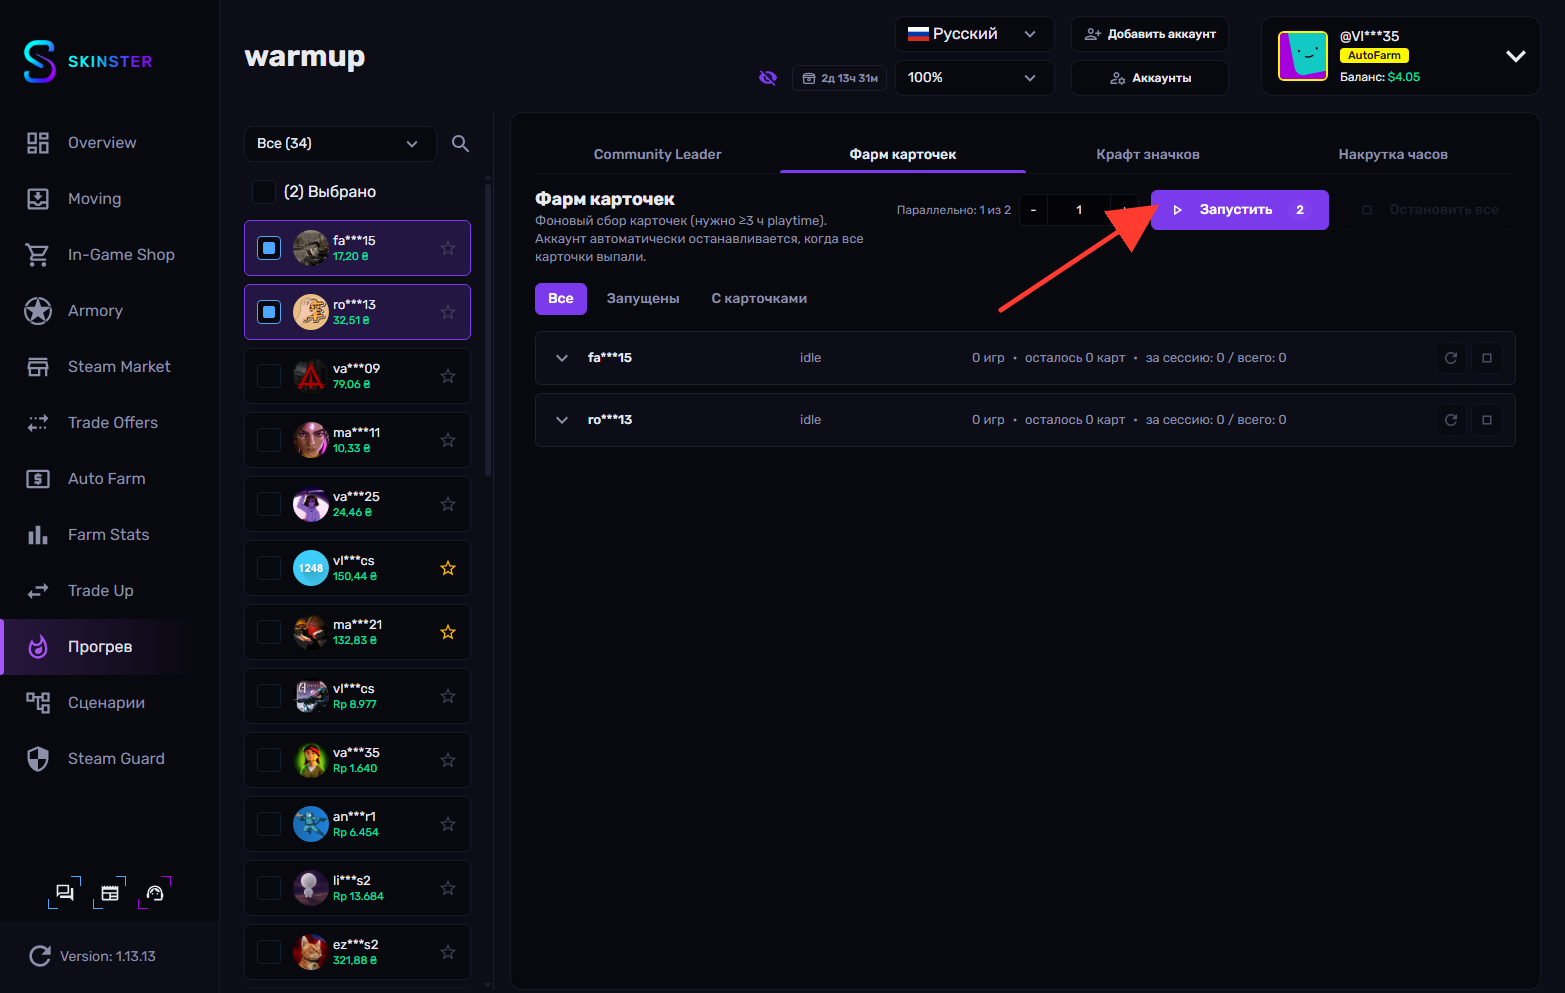
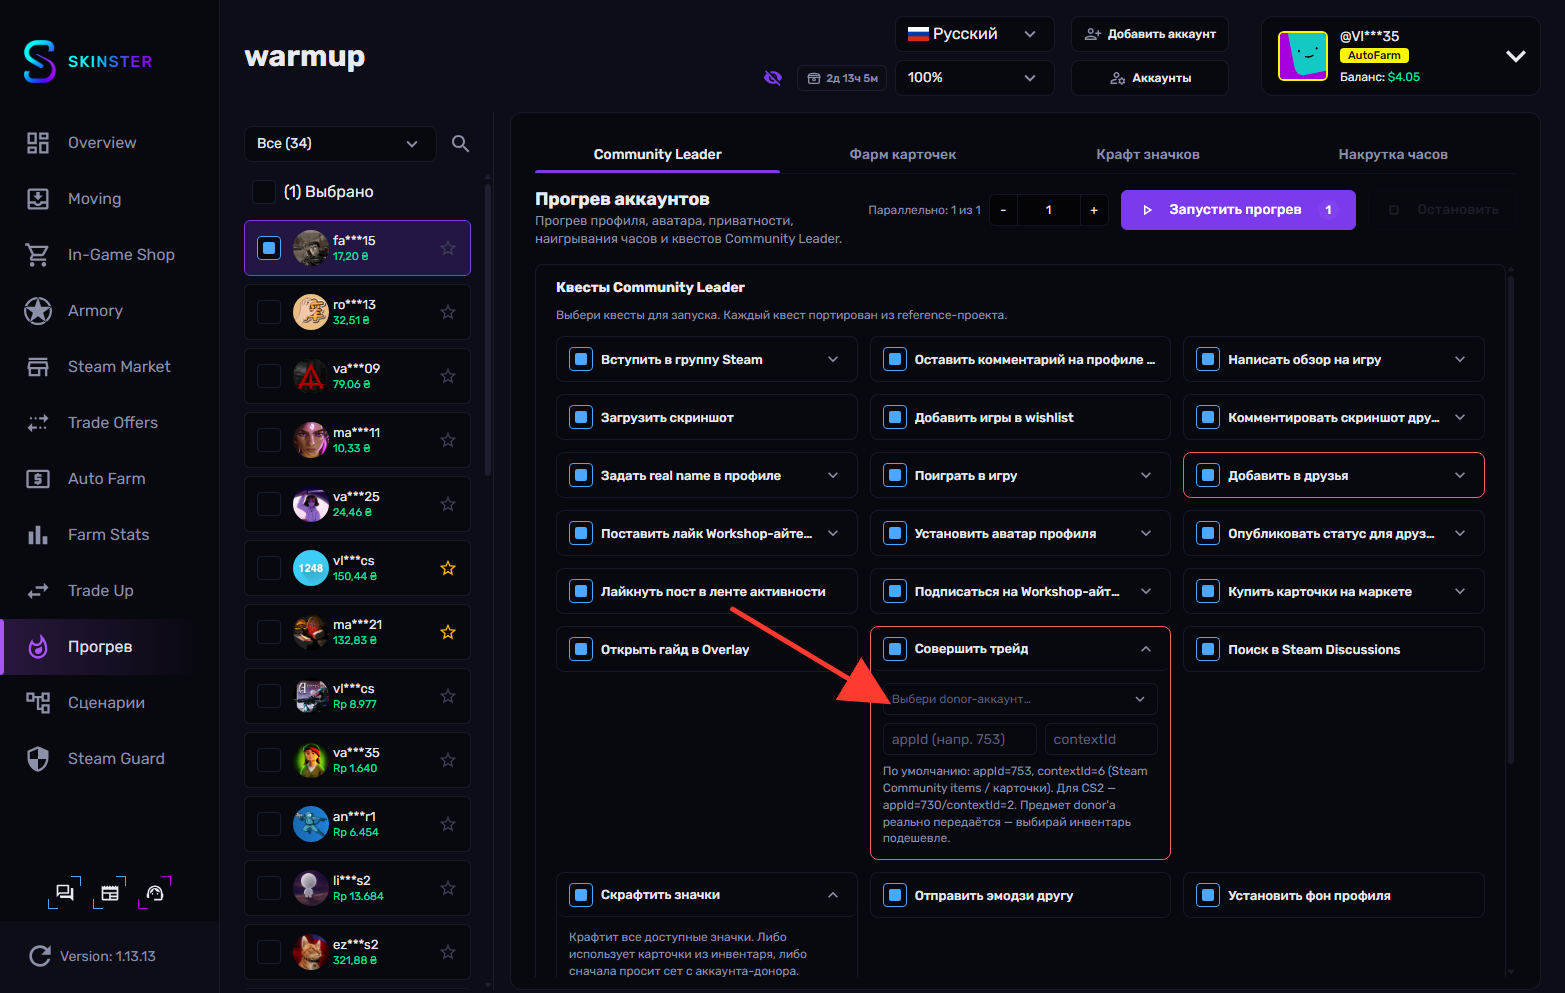
docs(warmup): add Совершить трейд and Скрафтить значки quest steps
Document two more Community Leader quests that require data before launch:
- Step 5: Совершить трейд — arrow on the «Выбери donor-аккаунт…» picker.
- Step 6: Скрафтить значки — «С аккаунта-донора» mode, arrows on the
  «Выбрать донор-аккаунт…» picker and «appId игры (напр. 730)» field.
Renumber the tab steps (Фарм карточек/Крафт значков/Накрутка часов) to 7-9
and shift their assets accordingly. Usernames masked in all screenshots.

diff --git a/gitbook/documentation/funkcional/warmup.md b/gitbook/documentation/funkcional/warmup.md
@@ -47,25 +47,41 @@ icon: fire
 
 <figure><img src="../.gitbook/assets/warmup-step-4.png" alt=""><figcaption></figcaption></figure>
 
-**5.** На вкладке **Фарм карточек** запускаем фоновый сбор карточек кнопкой **Запустить**
+**5.** Для квеста **Совершить трейд** разворачиваем его и в поле **Выбери donor-аккаунт…** выбираем аккаунт, который передаст предмет. Без выбранного donor-аккаунта квест подсвечивается красной рамкой и не выполнится
 
 <figure><img src="../.gitbook/assets/warmup-step-5.png" alt=""><figcaption></figcaption></figure>
+
+{% hint style="info" %}
+По умолчанию используется `appId=753` и `contextId=6` (карточки Steam Community). Для CS2-инвентаря укажите `appId=730`, `contextId=2`. Предмет donor-аккаунта реально передаётся — выбирайте инвентарь подешевле.
+{% endhint %}
+
+**6.** Для квеста **Скрафтить значки** разворачиваем его и переключаем режим на **С аккаунта-донора** — тогда появляются два обязательных поля: **Выбрать донор-аккаунт…** и **appId игры (напр. 730)**. Заполняем оба, иначе квест подсвечивается красной рамкой
+
+<figure><img src="../.gitbook/assets/warmup-step-6.png" alt=""><figcaption></figcaption></figure>
+
+{% hint style="info" %}
+В режиме **Из инвентаря** дополнительные поля не нужны — аккаунт крафтит значки из карточек, которые уже есть в его инвентаре. Режим **С аккаунта-донора** сначала запрашивает недостающий сет карточек у выбранного donor-аккаунта, поэтому требует указать донора и **App ID** игры.
+{% endhint %}
+
+**7.** На вкладке **Фарм карточек** запускаем фоновый сбор карточек кнопкой **Запустить**
+
+<figure><img src="../.gitbook/assets/warmup-step-7.png" alt=""><figcaption></figcaption></figure>
 
 {% hint style="info" %}
 Для выпадения карточек на аккаунте нужно не менее `3 ч` наигранного времени. Аккаунт автоматически останавливается, когда все карточки выпали. Фильтры **Все** / **Запущены** / **С карточками** помогают отслеживать прогресс.
 {% endhint %}
 
-**6.** На вкладке **Крафт значков** выбираем receiver-аккаунт в левой панели, а затем обязательно выбираем **аккаунты-доноры** в поле **Выберите аккаунты-доноры…**
+**8.** На вкладке **Крафт значков** выбираем receiver-аккаунт в левой панели, а затем обязательно выбираем **аккаунты-доноры** в поле **Выберите аккаунты-доноры…**
 
-<figure><img src="../.gitbook/assets/warmup-step-6.png" alt=""><figcaption></figcaption></figure>
+<figure><img src="../.gitbook/assets/warmup-step-8.png" alt=""><figcaption></figcaption></figure>
 
 {% hint style="info" %}
 **Receiver** получает карточки и крафтит значки, а **доноры** передают свои карточки через трейд-офферы. Без выбранных доноров кнопка **Сканировать** недоступна. После сканирования выбираем, какие значки крафтить, и запускаем кнопкой **Запустить**.
 {% endhint %}
 
-**7.** На вкладке **Накрутка часов** вводим App ID игр **через запятую** — например `730,440,570` — и нажимаем **Запустить**
+**9.** На вкладке **Накрутка часов** вводим App ID игр **через запятую** — например `730,440,570` — и нажимаем **Запустить**
 
-<figure><img src="../.gitbook/assets/warmup-step-7.png" alt=""><figcaption></figcaption></figure>
+<figure><img src="../.gitbook/assets/warmup-step-9.png" alt=""><figcaption></figcaption></figure>
 
 {% hint style="info" %}
 Несколько App ID разделяются **запятой** (`730,440,570`). Steam позволяет накручивать часы максимум в `32` играх одновременно. Опции **Остановить по таймеру** и **Делать паузы** позволяют ограничить время сессии и имитировать естественную активность.
